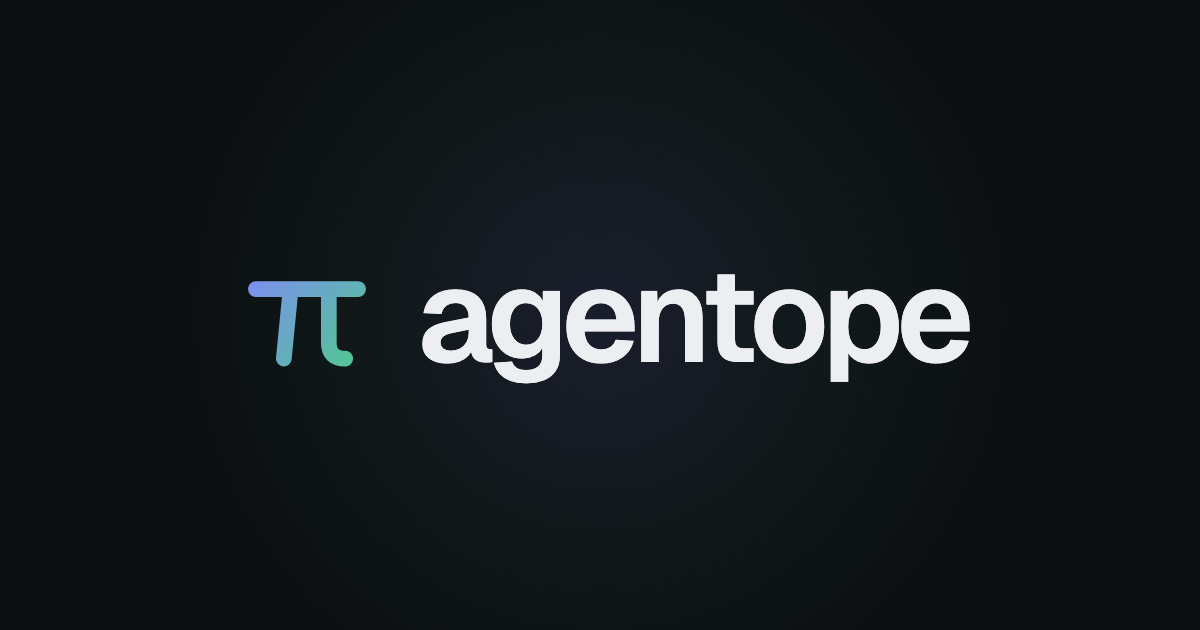
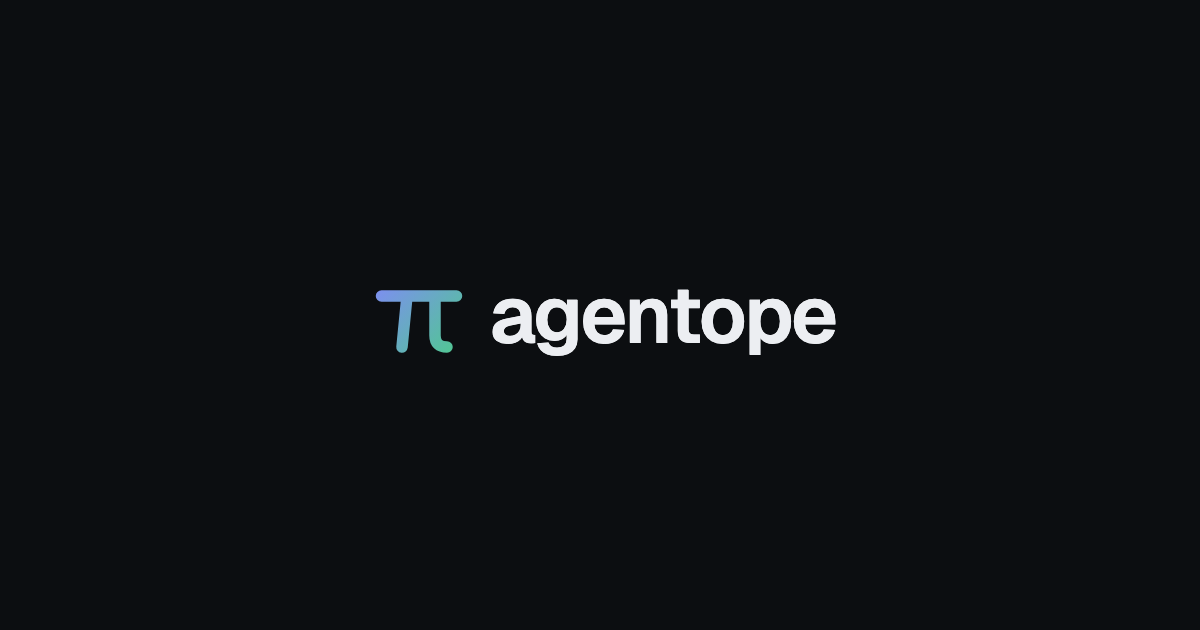
Fix og image

Changed region(s): [[0.185, 0.4222, 0.8325, 0.6333]]

diff --git a/site/scripts/og/og.html b/site/scripts/og/og.html
@@ -1,6 +1,6 @@
 <!doctype html>
 <!--
-  The link-preview image (public/og.png, 1200×630): the logo, in the dark theme.
+  The link-preview image (public/og.png, 1200×630): the header logo at 5×, on the dark theme background.
   Regenerate after editing (run from site/):
     "/Applications/Google Chrome.app/Contents/MacOS/Google Chrome" --headless=new \
       --hide-scrollbars --allow-file-access-from-files --window-size=1200,630 \
@@ -24,35 +24,22 @@
     display: flex;
     align-items: center;
     justify-content: center;
-    position: relative;
     overflow: hidden;
   }
-  /* A faint glow of the logo's gradient behind the mark. */
-  body::before {
-    content: "";
-    position: absolute;
-    left: 50%;
-    top: 50%;
-    width: 900px;
-    height: 900px;
-    transform: translate(-50%, -50%);
-    border-radius: 50%;
-    background: radial-gradient(circle, rgba(125, 143, 240, 0.12), rgba(79, 201, 143, 0.05) 40%, transparent 68%);
-  }
+  /* The header lockup scaled up 5×: a 22px mark beside 16px semibold text. */
   .logo {
-    position: relative;
     display: flex;
     align-items: center;
-    gap: 36px;
-    font-size: 132px;
+    gap: 16px; /* the mark carries its own side bearing */
+    font-size: 80px;
     font-weight: 600;
-    letter-spacing: -0.045em;
+    letter-spacing: -0.025em;
   }
 </style>
 </head>
 <body>
   <div class="logo">
-    <svg width="150" height="150" viewBox="0 0 22 22" aria-hidden="true">
+    <svg width="110" height="110" viewBox="0 0 22 22" aria-hidden="true">
       <defs>
         <linearGradient id="g" x1="3" y1="5" x2="19" y2="19" gradientUnits="userSpaceOnUse">
           <stop offset="0" stop-color="#7d8ff0"/>
